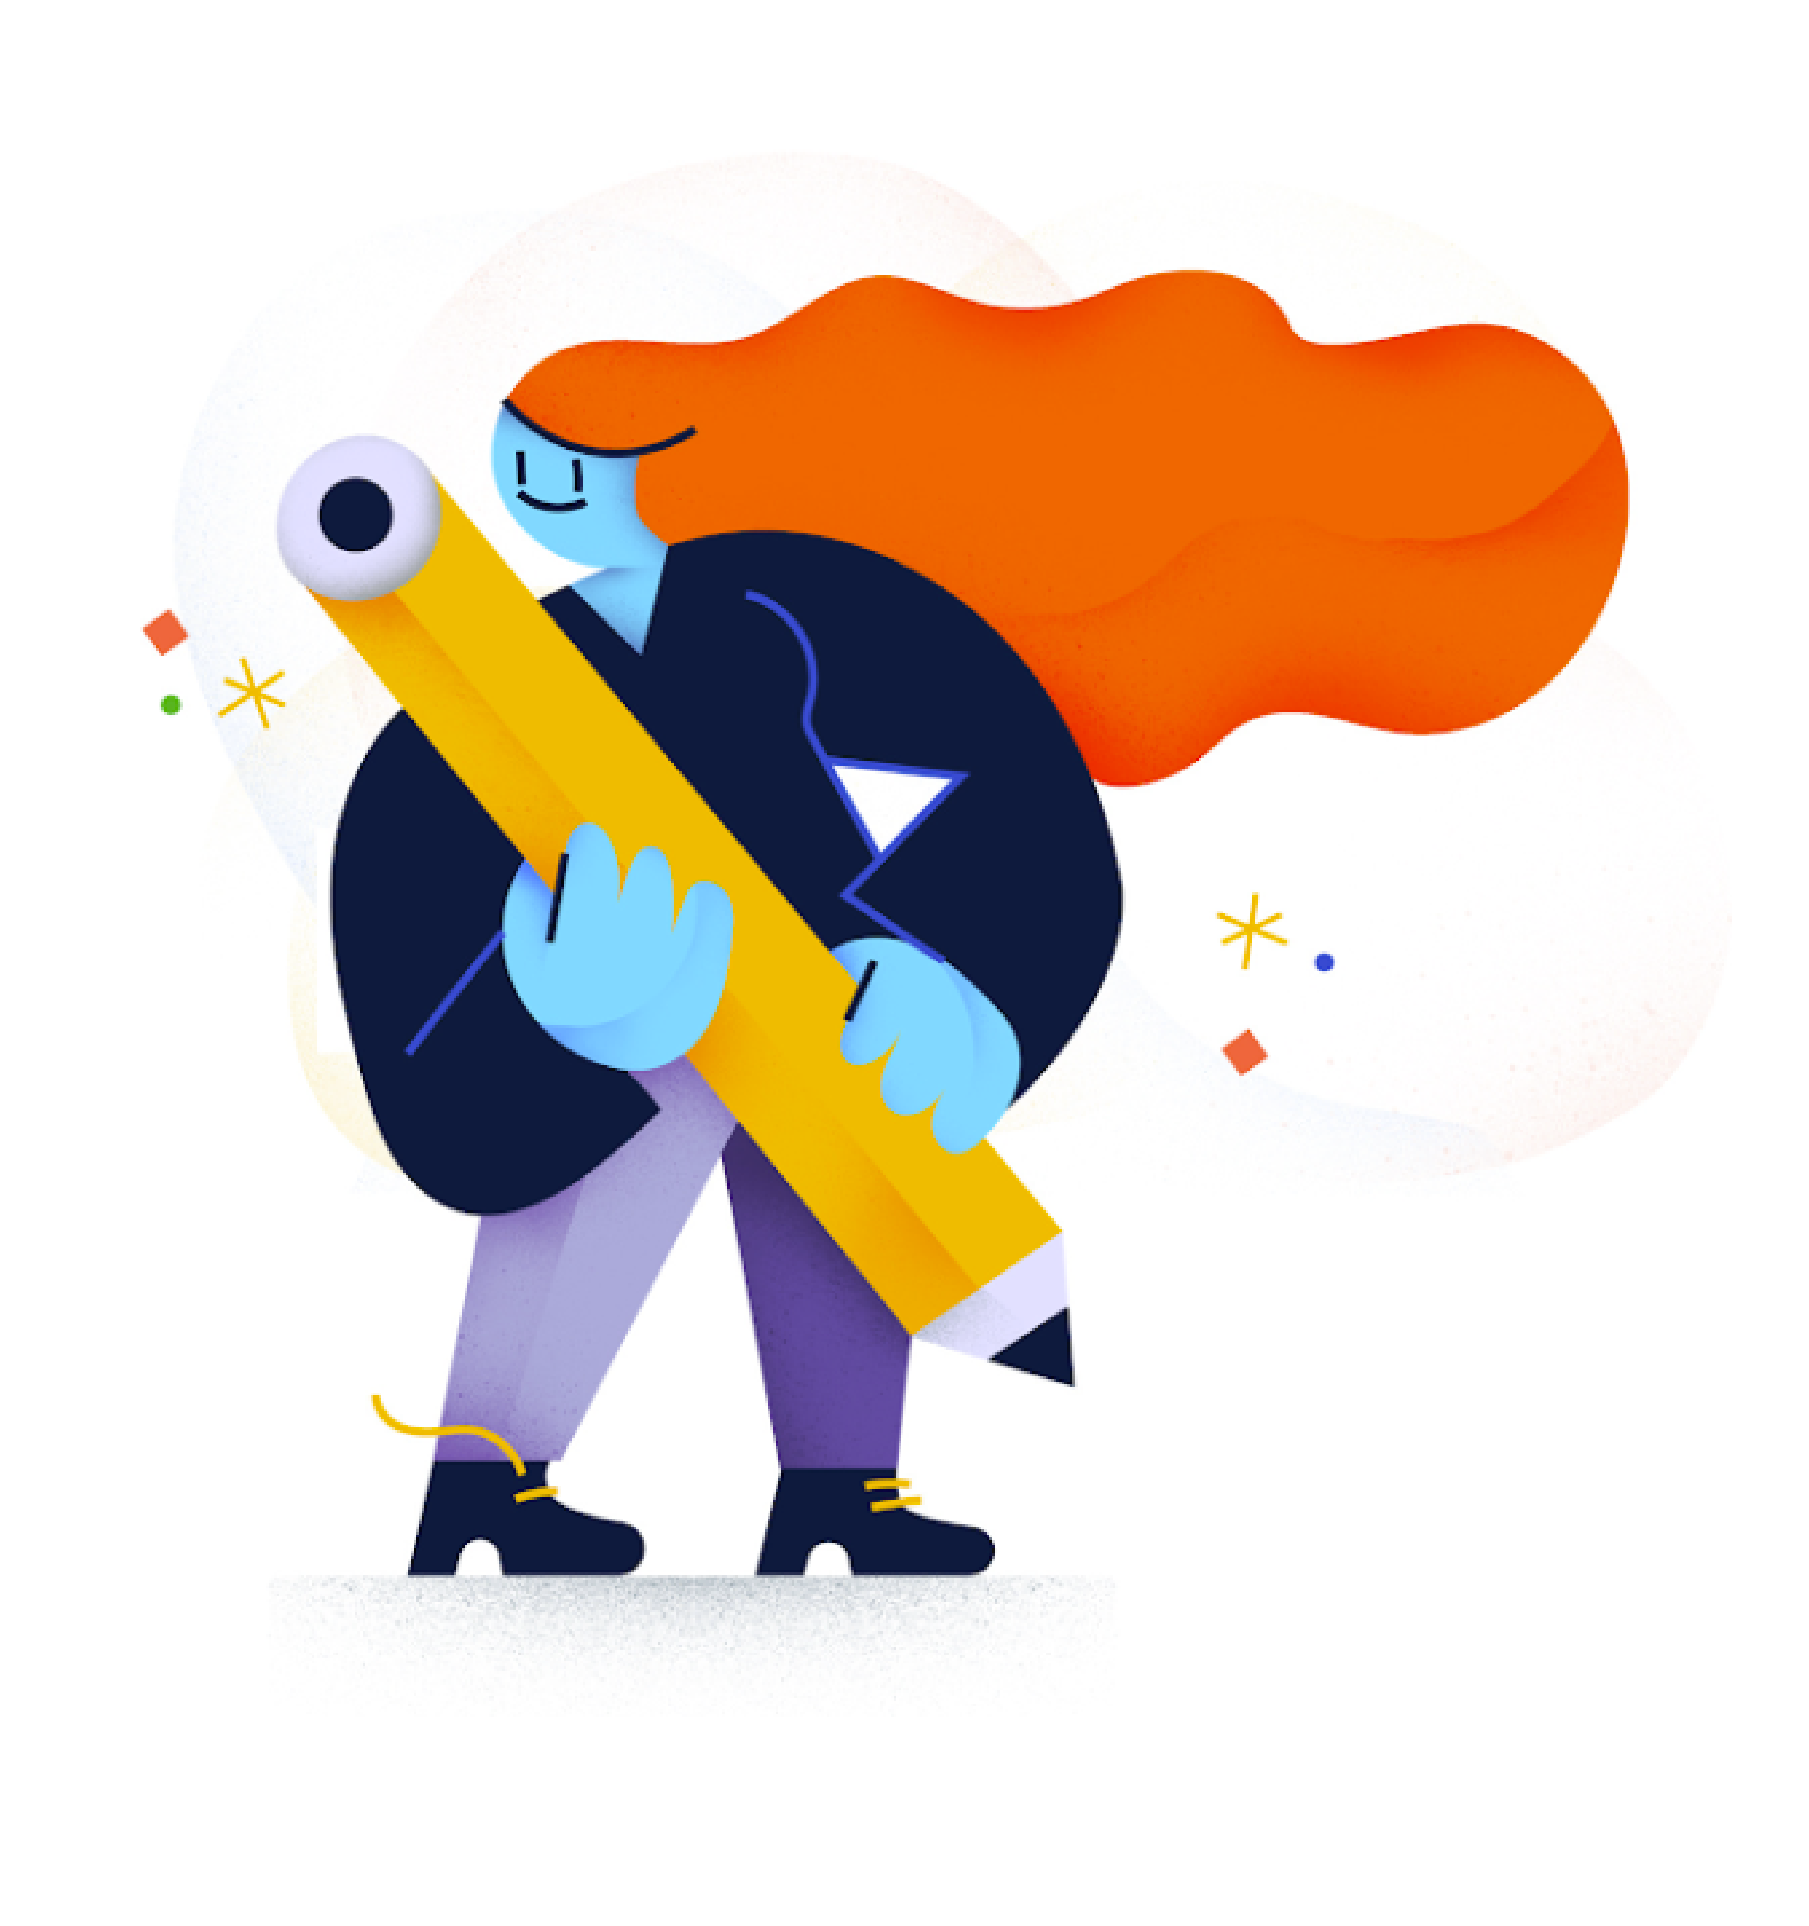
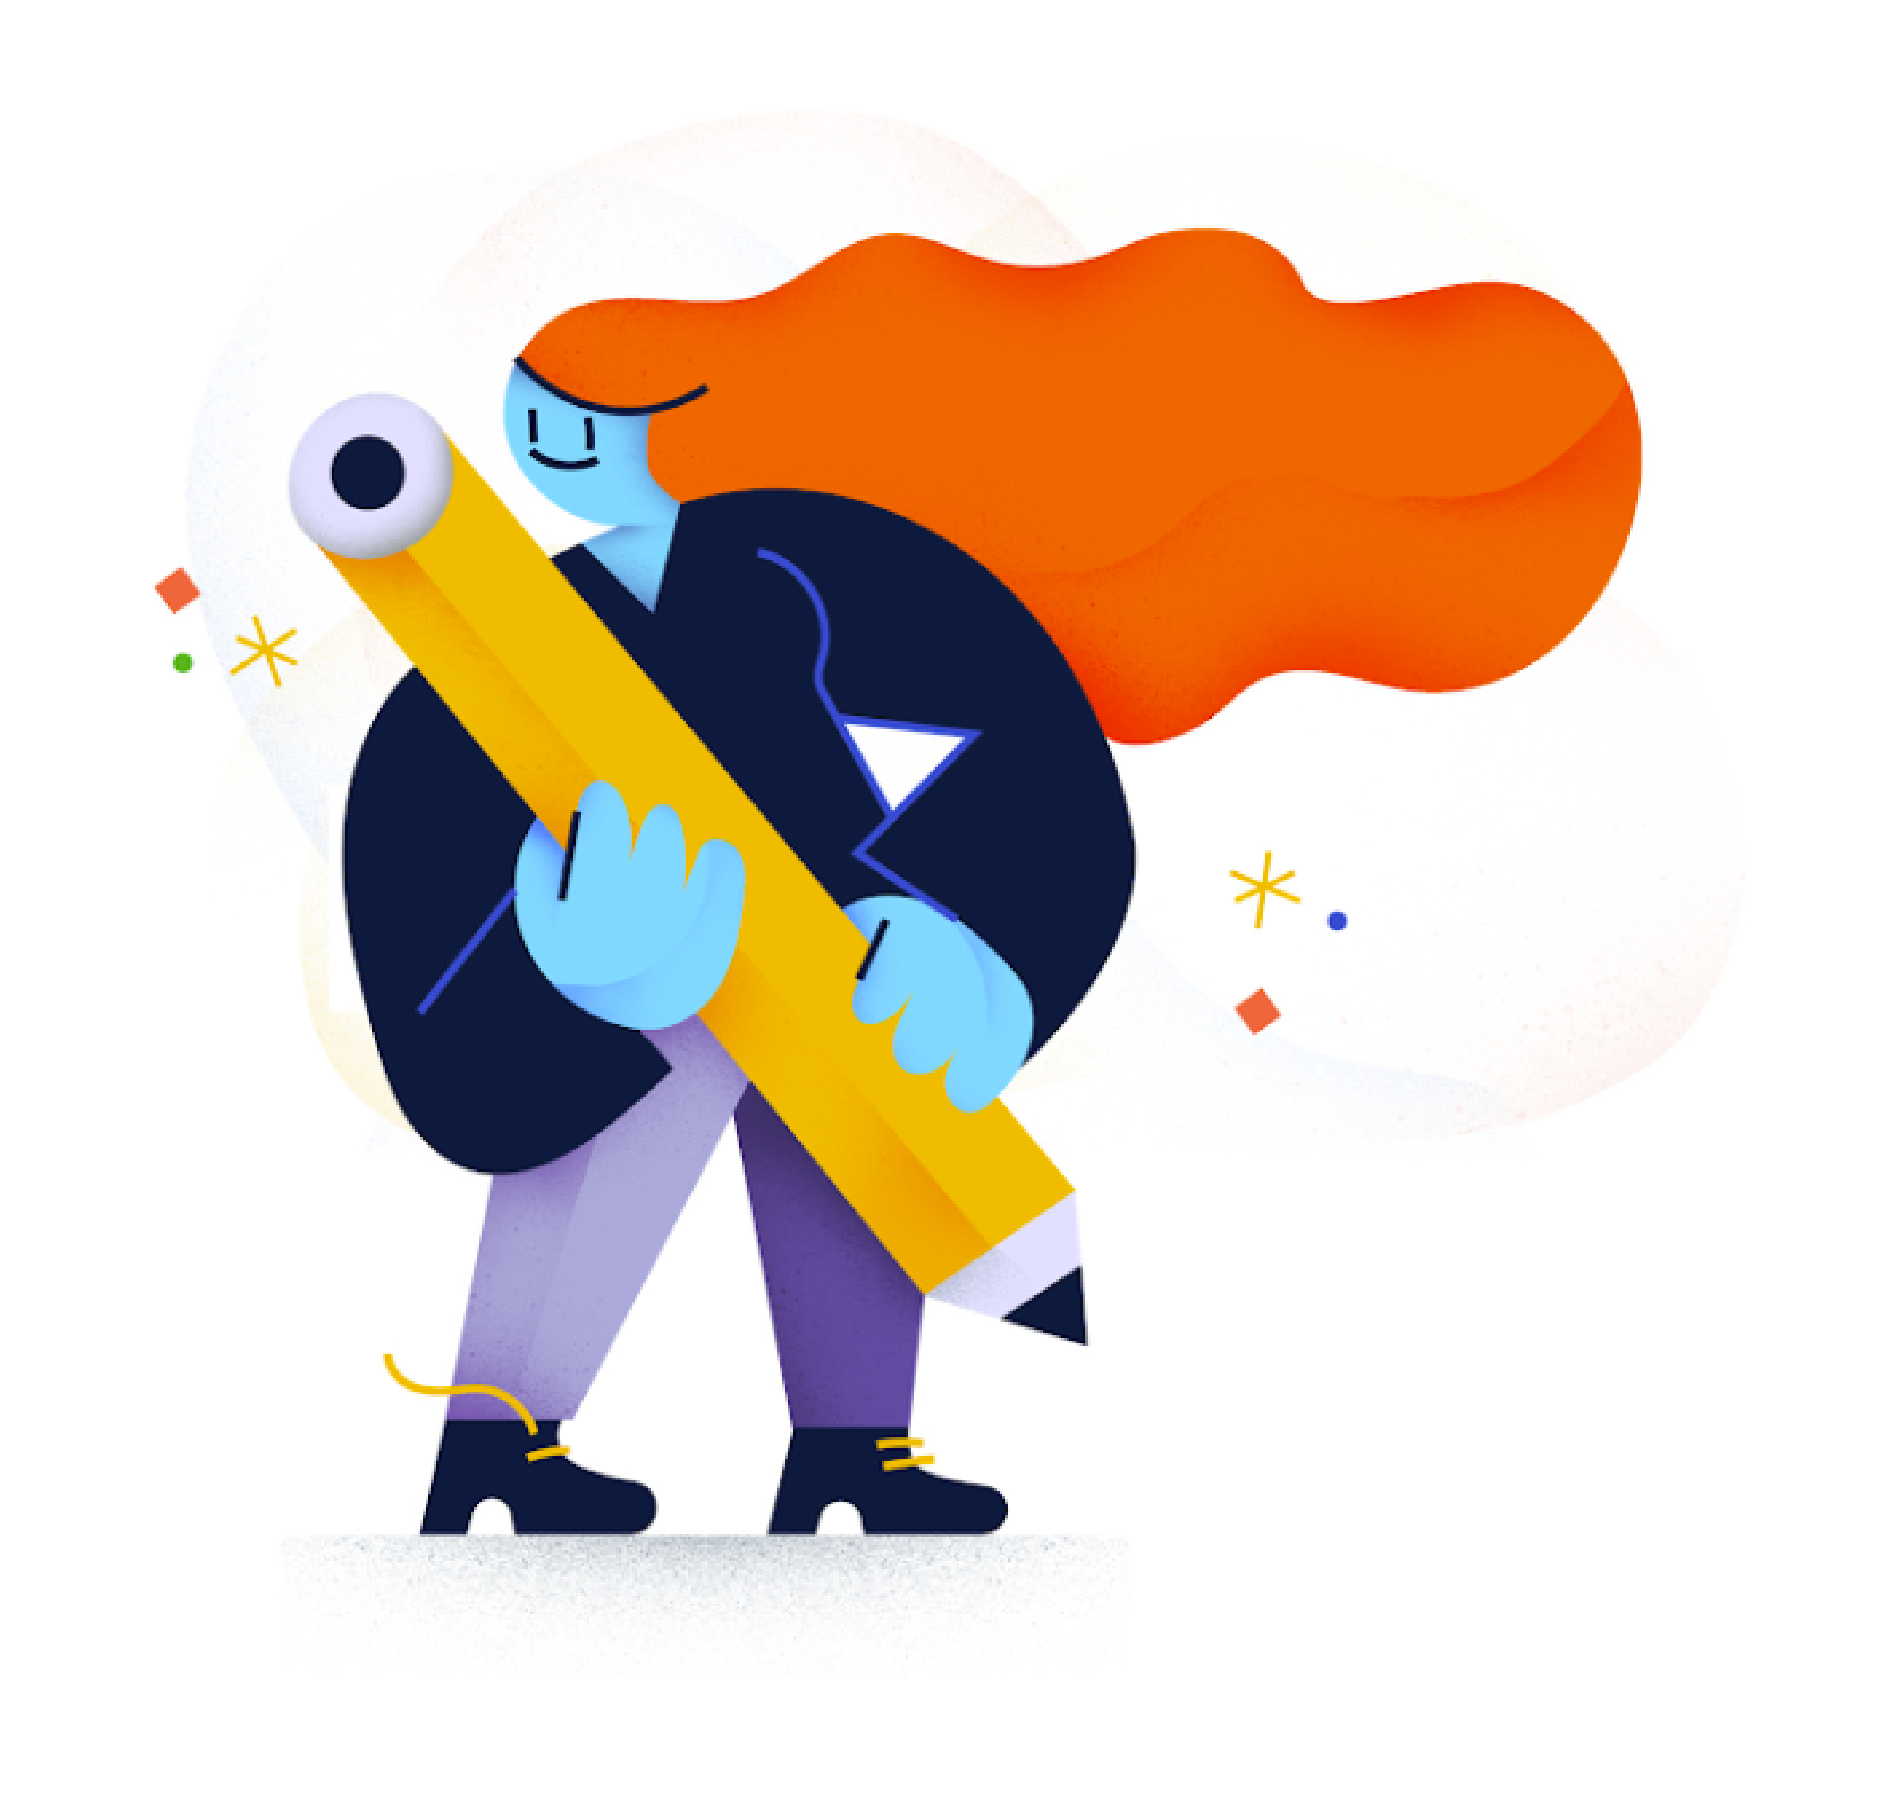
improved the blocking, spacing and image sizing

diff --git a/src/contactUs.js b/src/contactUs.js
@@ -10,8 +10,6 @@ class ContactUs extends React.Component {
                 <h1 class="header">Contact Us</h1>
 
 
-
-                <div className = 'body'>
                     <div className = 'form'>
                       <div className = 'formLeft'>
 
@@ -35,18 +33,21 @@ class ContactUs extends React.Component {
                       </div>
 
                       <div className = 'formRight'>
-                      <img src={process.env.PUBLIC_URL + '/contact-image.png'} width = "100%" className="centre" alt="banner"
-                      resizeMode='cover'
+                      <img src={process.env.PUBLIC_URL + '/contact-image.png'} width = "100%" className="centre" alt="contact us image"
+                      resizeMode='contain'
                       />
                       </div>
+
+                    </div>
+
+                    <div class = "newEmails">
+                      <h2 style={{textAlign: 'center'}}>Contact Our Team </h2>
                     </div>
 
 
+                    <div class="Emails">
 
-                    <div class="col-lg-8">
-                        <p className='subheader' style={{textAlign: 'center'}}>
-                            <strong>Contact Our Team</strong>
-                        </p>
+
                         <div class='row'>
                             <div class='col-sm-4' style={{'text-align': 'right'}}>
                                 <ul style={{'list-style': 'none'}}>
@@ -93,7 +94,7 @@ class ContactUs extends React.Component {
                             </div>
 
                         </div>
-				    </div>
+
                 </div>
 
 

diff --git a/src/contactUs.css b/src/contactUs.css
@@ -1,35 +1,38 @@
 /* style for contact us page. So far:
-- the email segment
 - the forms segment
+- the emails segment
 */
 
-
-
-
 .form {
+    margin-top: 100px;
     max-width: 90%;
     text-align: center;
     margin: auto;
+    display: block;
+    height: 620px;
+    margin-bottom: 100px;
 }
 
 .formLeft {
     display: inline-block;
     width: 40%;
     padding: 50px;
-    height:550px;
+    height: 100%;
     float:left;
 }
 
 .formRight {
     display: inline-block;
     width: 60%;
-    height:550px;
     padding: 0px;
-    padding-left: 20px;
     float:right;
+    height: 100%;
+    padding-bottom: 0px;
+    overflow: hidden;
 }
 
-.formLeft h2 {
+
+h2 {
   font-family: Roboto, sans-serif;
   font-size: 36px;
   color: black;
@@ -65,7 +68,8 @@ input.formInput {
 
   border-radius: 0px;
   width: 100%;
-  padding-bottom: 20px;
+  margin-bottom: 15px;
+  padding-bottom: 10px;
 }
 
 .formLeft form input.button {
@@ -92,3 +96,28 @@ input.formInput {
 ::-ms-input-placeholder { /* Microsoft Edge */
   color: rgb(156,171,188);
 }
+
+/*Style for the Emails is below*/
+
+.newEmails h2 {
+
+  margin-top: 100px;
+  color: green;
+
+}
+
+.newEmails {
+  border-style: solid;
+  border-color: red;
+  border-width: 10px;
+}
+
+/*
+.newEmails {
+  margin-top: 100px;
+  padding-top: 200px;
+  background-color: purple;
+  display: block;
+  height: 700px;
+
+}*/
